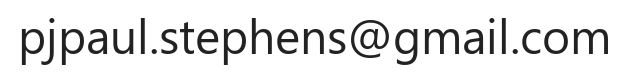
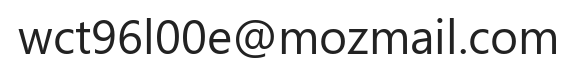
Privacy page: masked contact address, no explanatory note

Changed region(s): [[0.0312, 0.2105, 0.9671, 0.7895], [0.0624, 0.2105, 0.0936, 0.2895]]

diff --git a/privacy.html b/privacy.html
@@ -77,11 +77,7 @@
   Questions about this policy:
 </p>
 <p>
-  <img src="contact.png" width="209" height="27" alt="Contact address shown as an image">
-</p>
-<p class="note">
-  The address is an image so that scrapers cannot harvest it from the page source.
-  It is the same address that owns this application.
+  <img src="contact.png" width="192" height="25" alt="Contact address shown as an image">
 </p>
 
 </body>
